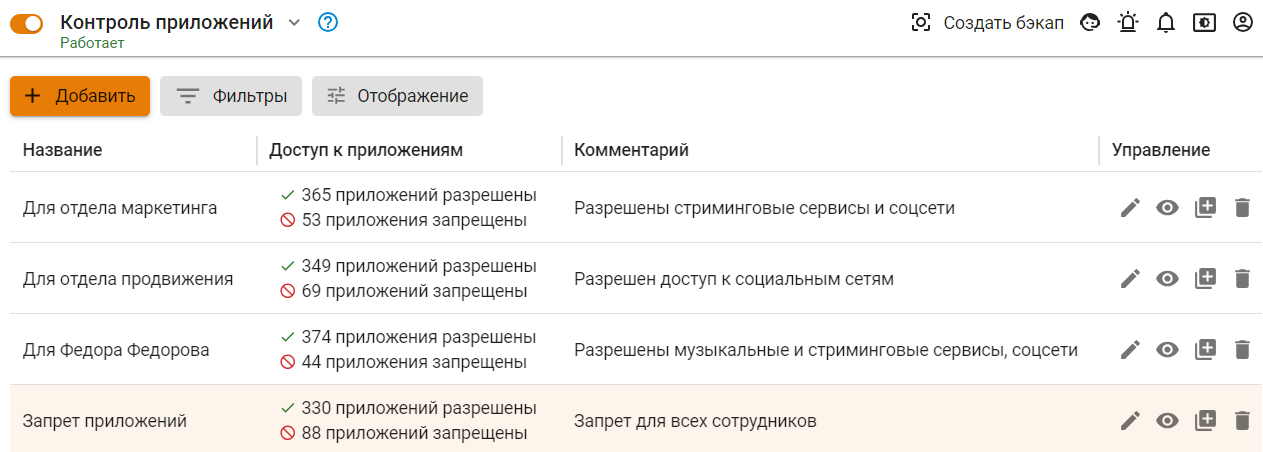
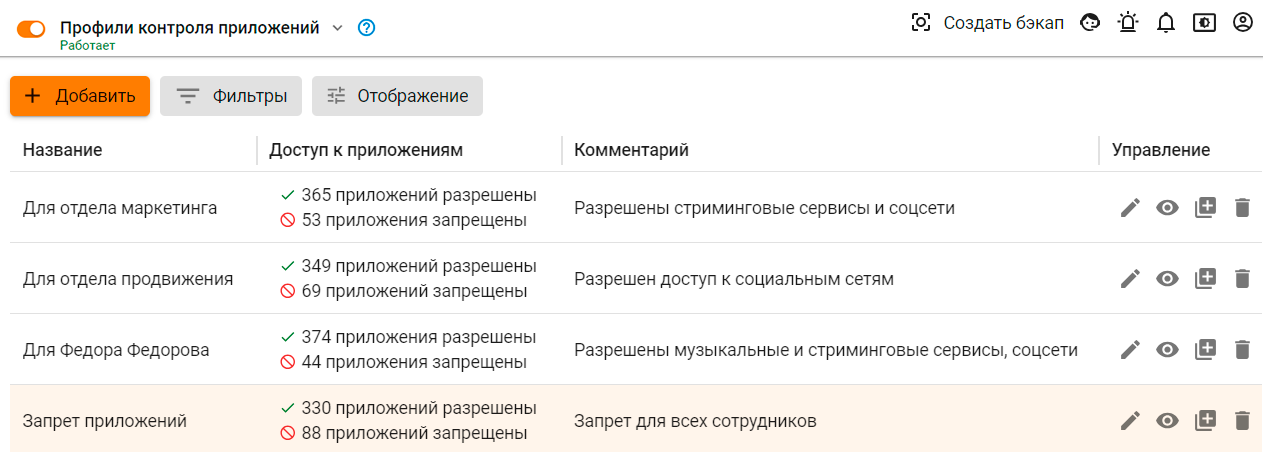
ICS-38745 ЦК. Добавить информацию о синхронизации профилей Контроля приложений УТМ и ЦК

Changed region(s): [[0.0, 0.031, 0.3088, 0.1239], [0.772, 0.031, 0.8337, 0.0619]]

diff --git a/settings/security-profiles/application-control.md b/settings/security-profiles/application-control.md
@@ -5,14 +5,14 @@ description: >-
 
 # Контроль приложений
 
-В разделе **Профили безопасности -> Контроль приложений** создаются профили безопасности, разрешающие или запрещающие доступ пользователя к заданному администратором набору приложений и протоколов. Для выявления протоколов приложений осуществляется глубокий анализ трафика (Deep Packet Inspection - DPI). 
+В разделе **Профили безопасности -> Профили контроля приложений** создаются профили безопасности, разрешающие или запрещающие доступ пользователя к заданному администратором набору приложений и протоколов. Для выявления протоколов приложений осуществляется глубокий анализ трафика (Deep Packet Inspection - DPI).
 
 {% hint style="success" %}
 Названия служб раздела _Контроль приложений_: `ideco-app-backend` и `ideco-app-control-nfq`.\
 Список имен служб для других разделов доступен по [ссылке](/settings/server-management/terminal.md).
 {% endhint %}
 
-В 18 версии Ideco NGFW созданные в разделе **Профили безопасности -> Контроль приложений** профили безопасности применяются при создании правил в разделе **Правила трафика -> Файрвол**.
+В 18 версии Ideco NGFW созданные в разделе **Профили безопасности -> Профили контроля приложений** профили безопасности применяются при создании правил в разделе **Правила трафика -> Файрвол**.
 
 {% hint style="danger" %}
 Если профиль не добавлен в правила таблицы FORWARD или INPUT раздела **Правила трафика -> Файрвол**, трафик не будет фильтроваться **Контролем приложений**
@@ -36,7 +36,7 @@ description: >-
 
 ### Создание профиля в Контроле приложений
 
-1\. Перейдите в раздел **Профили безопасности -> Контроль приложений** и нажмите **Добавить**.
+1\. Перейдите в раздел **Профили безопасности -> Профили контроля приложений** и нажмите **Добавить**.
 
 2\. На вкладке **Описание** заполните **Название** и **Комментарий** (необязательно):
 
@@ -77,7 +77,7 @@ description: >-
 
 <details>
 
-<summary> Пример создания нескольких профилей Контроля приложений </summary> 
+<summary> Пример создания нескольких профилей Контроля приложений </summary>
 
 **Пример**. Необходимо настроить профили **Контроля приложений** в соответствии с требованиями:
 * Всем пользователям запрещены компьютерные игры, контент для взрослых, майнинг и криптовалюты;
@@ -89,7 +89,7 @@ description: >-
 
 ![](/.gitbook/assets/application-control10.png)
 
-1\. Создайте профиль, запрещающий доступ к социальным сетям, стриминговым сервисам, музыкальным приложениям, компьютерным играм, контенту для взрослых, майнингу и криптовалютам. Для этого перейдите в раздел **Профили безопасности -> Контроль приложений**, нажмите **Добавить** и введите название профиля:
+1\. Создайте профиль, запрещающий доступ к социальным сетям, стриминговым сервисам, музыкальным приложениям, компьютерным играм, контенту для взрослых, майнингу и криптовалютам. Для этого перейдите в раздел **Профили безопасности -> Профили контроля приложений**, нажмите **Добавить** и введите название профиля:
 
 ![](/.gitbook/assets/application-control11.png)
 

diff --git a/settings-cc/security-profiles.md b/settings-cc/security-profiles.md
@@ -1,0 +1,17 @@
+# Профили безопасности
+
+Профили безопасности представляют собой наборы параметров, которые используются для фильтрации трафика различными модулями. Это позволяет настраивать разные политики безопасности независимо друг от друга.
+
+В Ideco Center можно управлять профилями безопасности для всех подключенных Ideco NGFW одновременно.
+
+## Профили контроля приложений
+
+В разделе **Профили безопасности -> Профили контроля приложений** можно создавать профили, которые определяют, разрешен ли пользователю доступ к выбраным приложениям и протоколам. Для определения протоколов приложений используется глубокий анализ трафика (Deep Packet Inspection — DPI).
+
+![](/.gitbook/assets/application-control17.png)
+
+{% hint style="success" %}
+Принцип создания и настройки профилей в Ideco Center соответствуют принципам Ideco NGFW. Подробное описание в статье [Контроль приложений](/settings/security-profiles/application-control.md).
+{% endhint %}
+
+## Предотвращение вторжений

diff --git a/recipes/popular-recipes/blocking-popular-resources.md b/recipes/popular-recipes/blocking-popular-resources.md
@@ -22,7 +22,7 @@
 
 **TeamViewer** - это программное обеспечение для удаленного доступа и управления компьютерами. Его можно заблокировать с помощью [Контроля приложений](/settings/security-profiles/application-control.md).
 
- 1\. Перейдите в раздел **Профили безопасности -> Контроль приложений**. Создайте новый профиль для TeamViewer с действием **Запретить**:
+ 1\. Перейдите в раздел **Профили безопасности -> Профили контроля приложений**. Создайте новый профиль для TeamViewer с действием **Запретить**:
 
 ![](/.gitbook/assets/application-control1.png)
 

diff --git a/SUMMARY.md b/SUMMARY.md
@@ -178,6 +178,7 @@
 * [Серверы](settings-cc/servers.md)
 * [Мониторинг](settings-cc/monitor.md)
 * [Политики и объекты](settings-cc/policies-and-objects.md)
+* [Профили безопасности](settings-cc/security-profiles.md)
 * [Сервисы](settings-cc/services.md)
 * [Отчеты и журналы](settings-cc/reports.md)
 * [Управление сервером](settings-cc/server-management.md)
